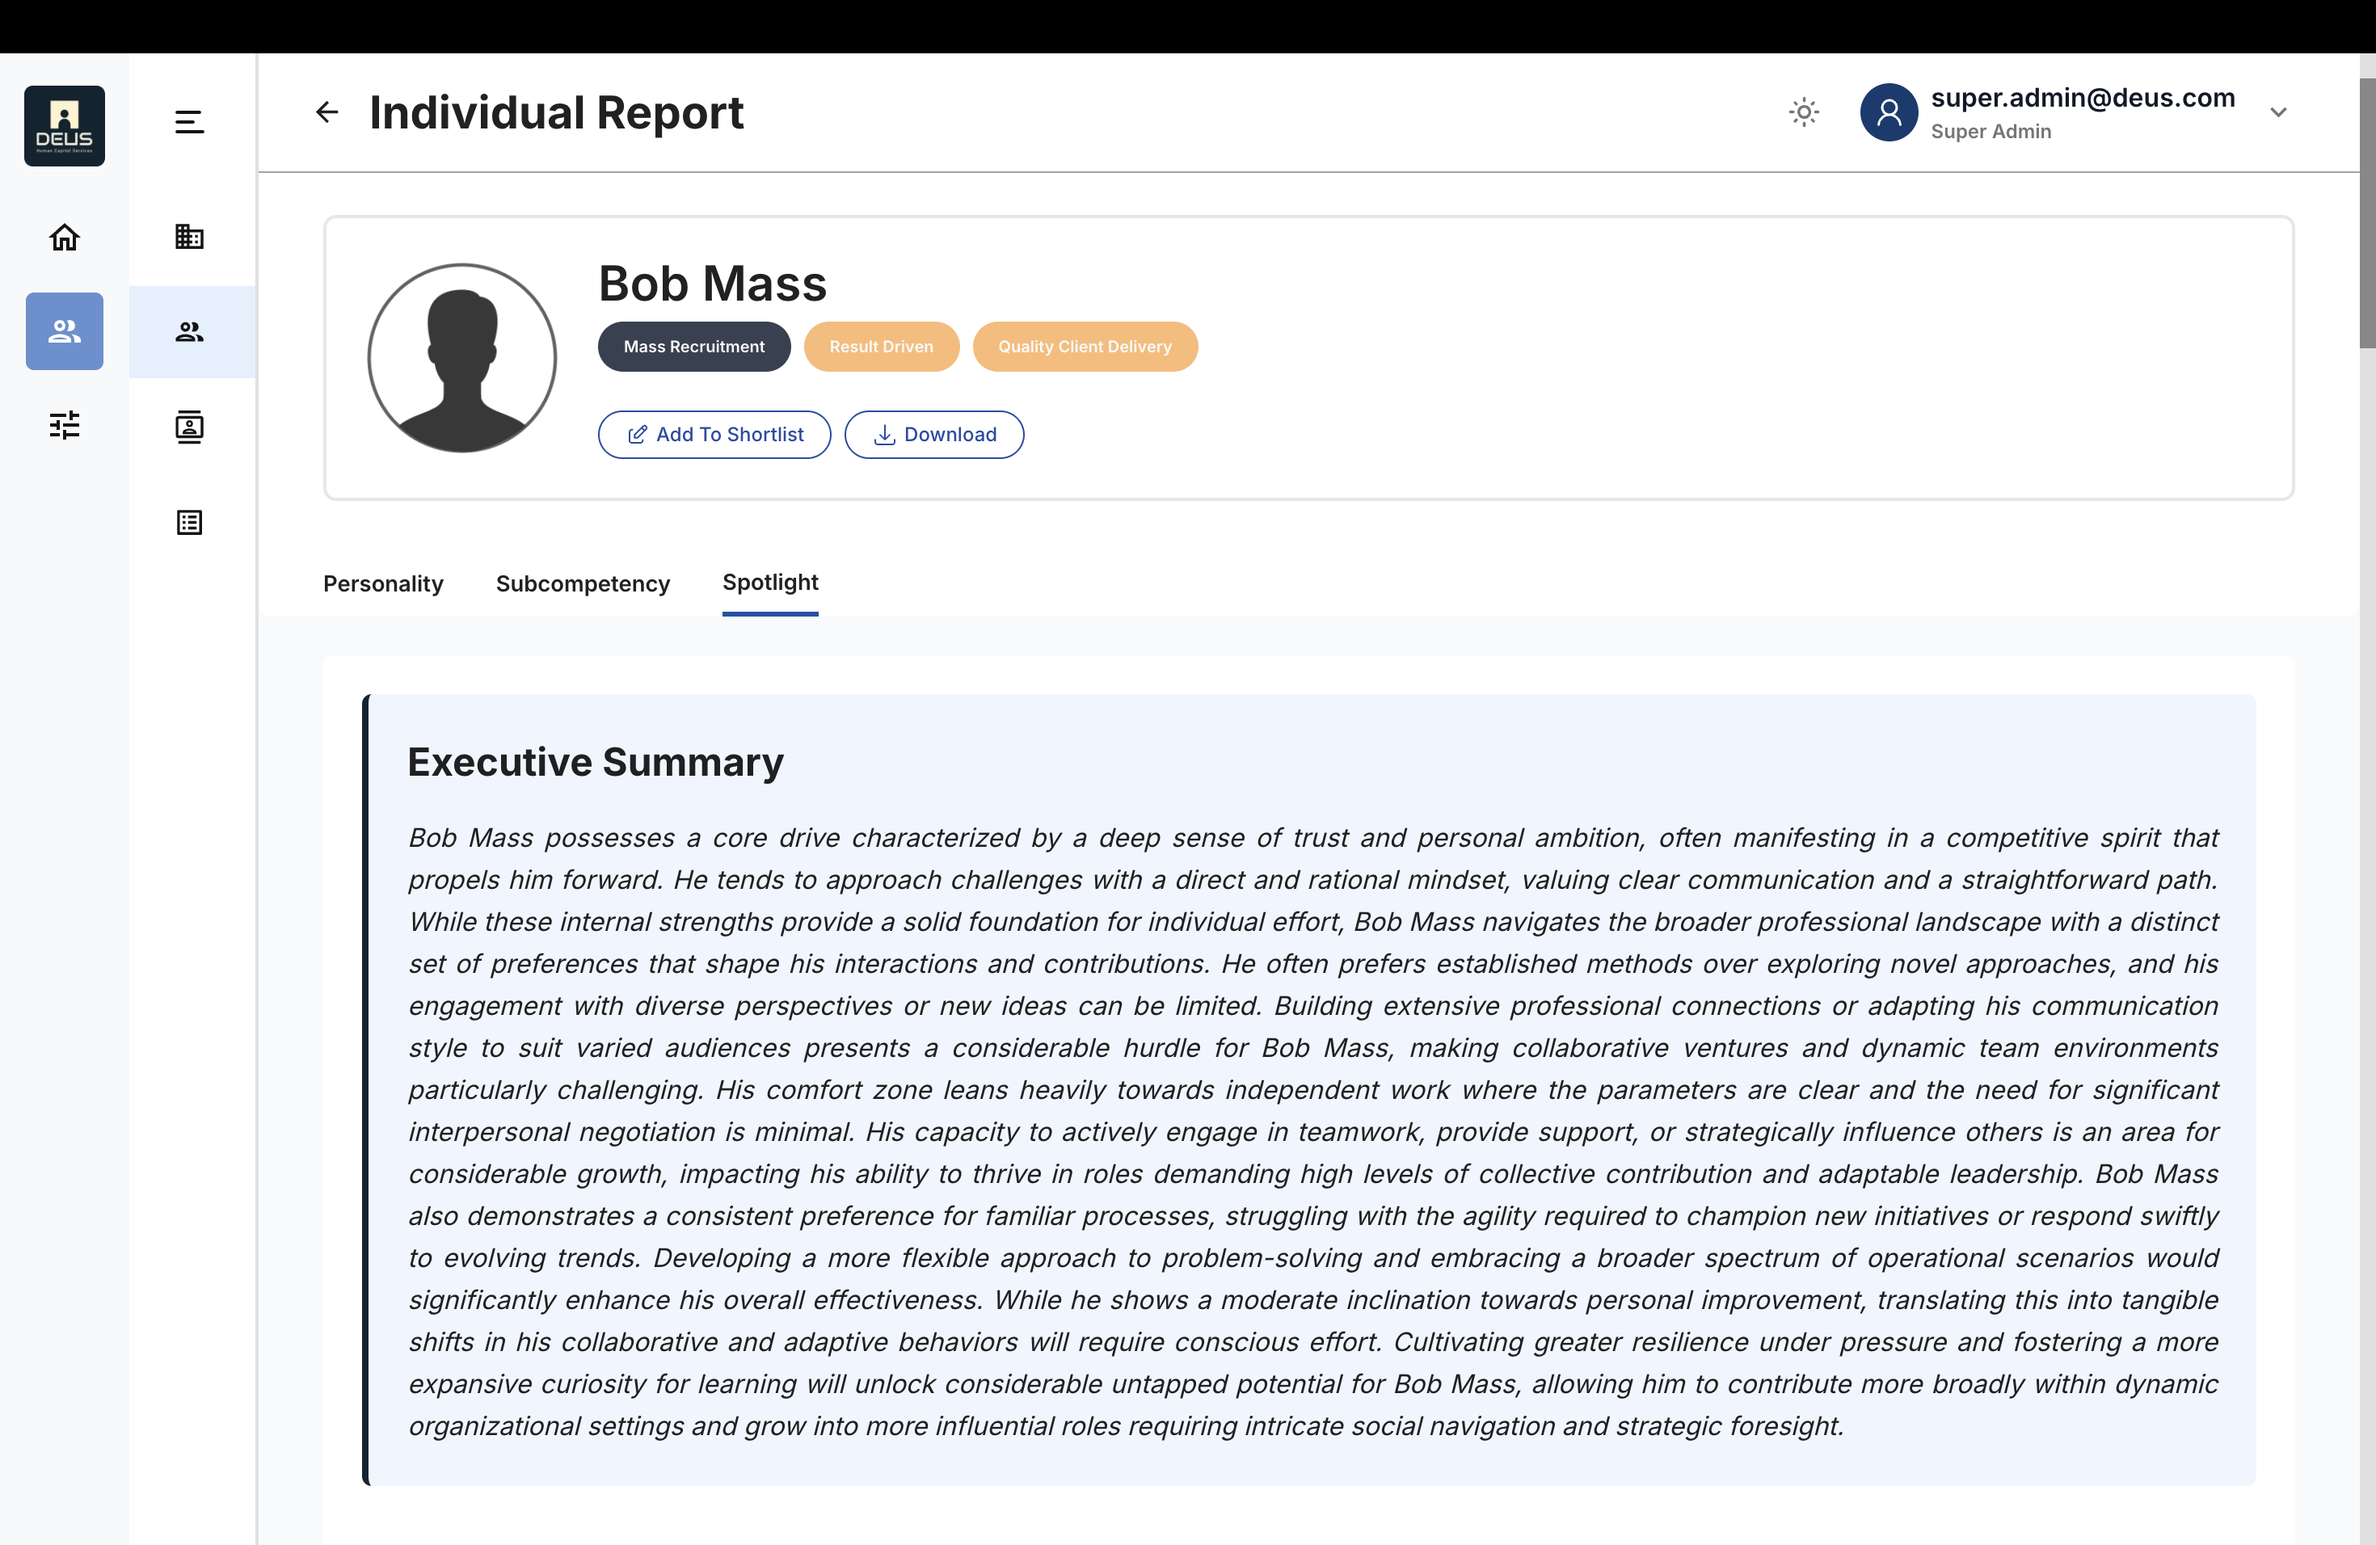
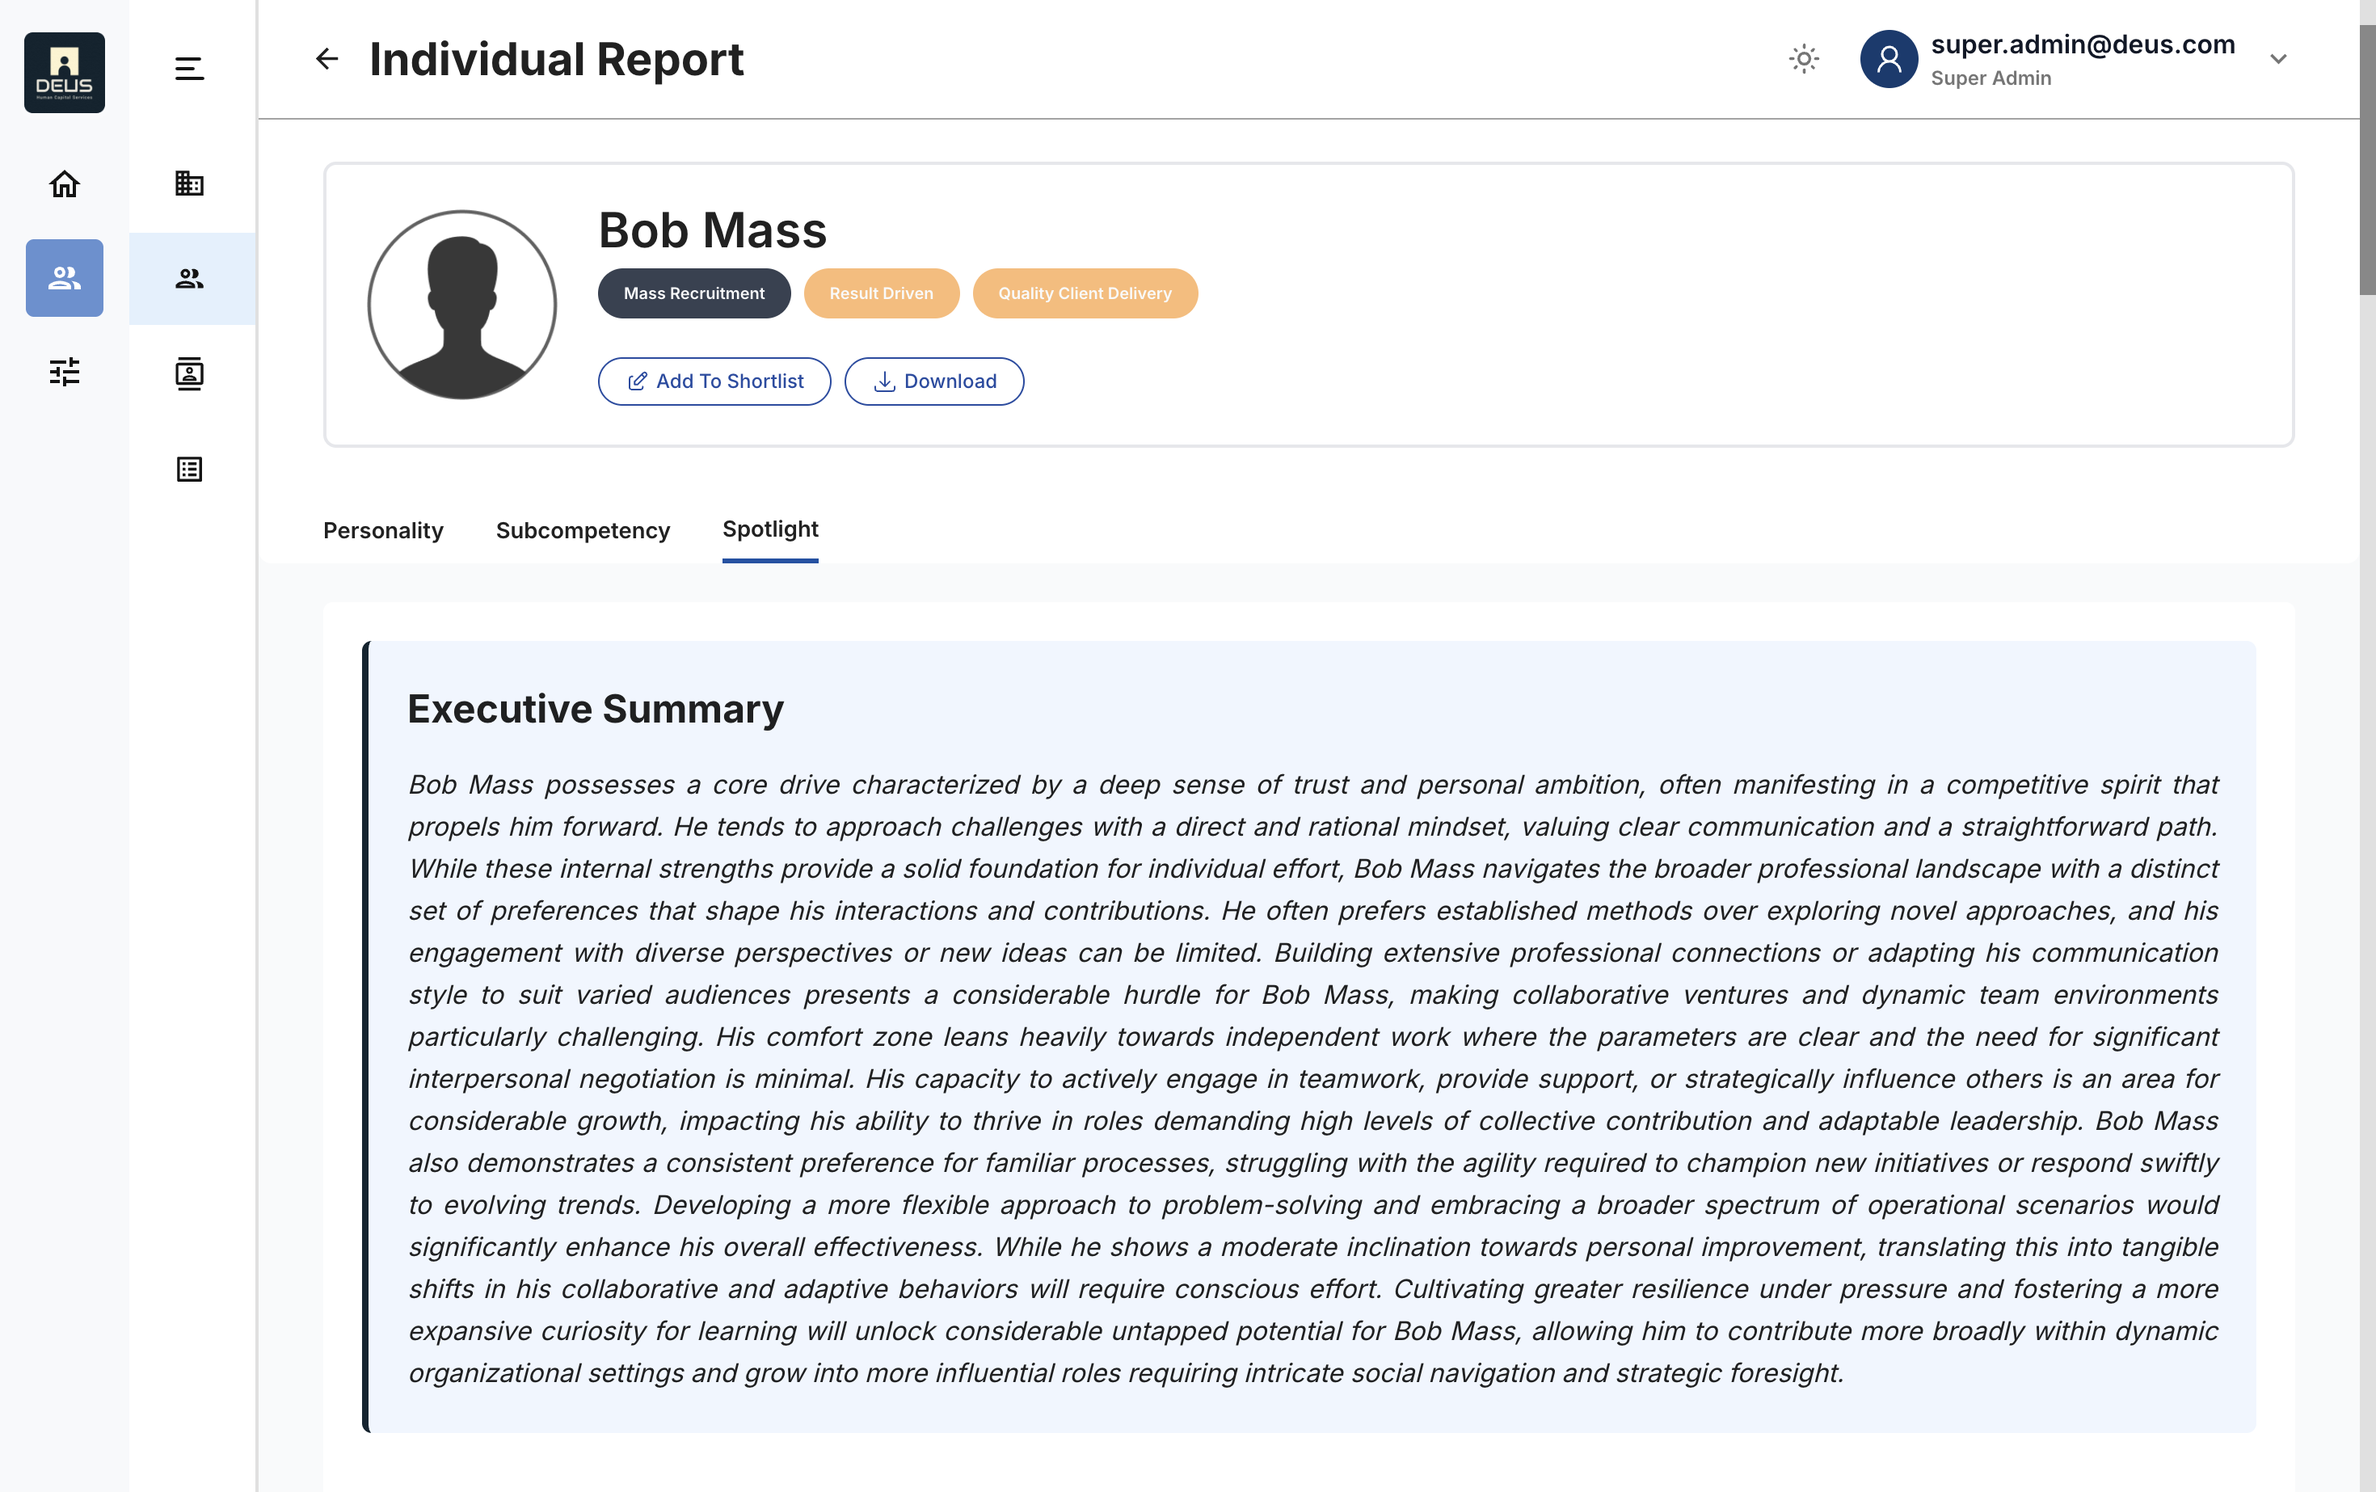
content: add MONDO Creation project, crop black bars off three screenshots
- New featured project: MONDO Creation (mcreation.id), an Astro + Sanity
  brand and catalog site, with a clean hero screenshot from the live site
- Crop the browser black bar off the AI report, chord transposer and BSF
  predictor screenshots

diff --git a/content/projects.ts b/content/projects.ts
@@ -18,6 +18,22 @@ export interface Project {
 
 export const projects: Project[] = [
   {
+    slug: 'mondo-creation',
+    side: 'a',
+    title: 'MONDO Creation — brand & catalog site',
+    summary: 'A storefront for a gender-neutral outerwear label, built end to end.',
+    description:
+      'I designed and built the website for MONDO Creation, a gender-neutral outerwear label from Bandung. It tells the brand story and shows the collection, with a product catalog the owner updates herself through a headless CMS. Buying happens on Shopee and sizing questions go to WhatsApp, so there is no checkout to maintain — the site’s job is to make the clothes look good and load fast. It is statically built and rebuilds on its own a couple of minutes after a product is published.',
+    technologies: ['Astro', 'Sanity CMS', 'TypeScript', 'Cloudflare Pages'],
+    status: 'ongoing',
+    kind: 'Web',
+    context: 'MONDO Creation, 2026',
+    link: 'https://mcreation.id/',
+    image: '/mondo-site.png',
+    imageAlt: 'The MONDO Creation homepage: a model in a caramel jacket beside the words “Wear your direction.”',
+    featured: true,
+  },
+  {
     slug: 'ai-report-engine',
     side: 'a',
     title: 'AI-Driven Personalized Reporting Engine',
